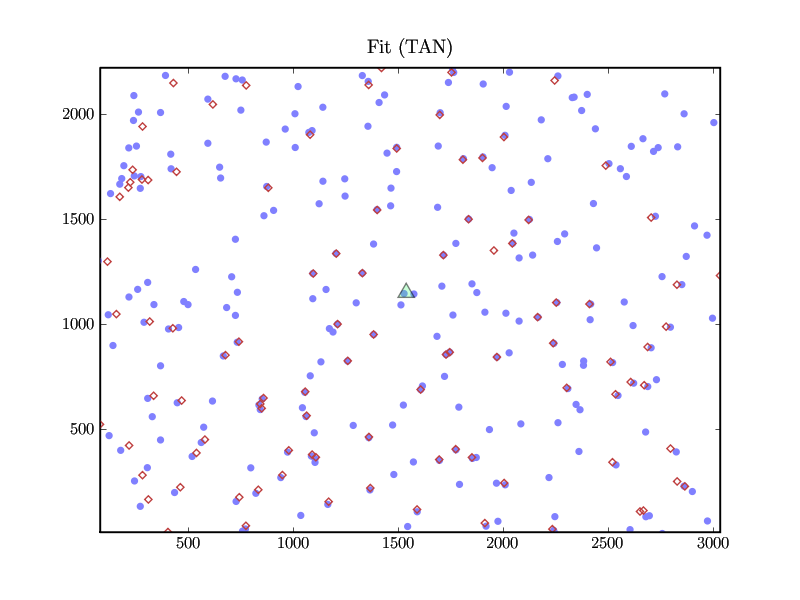
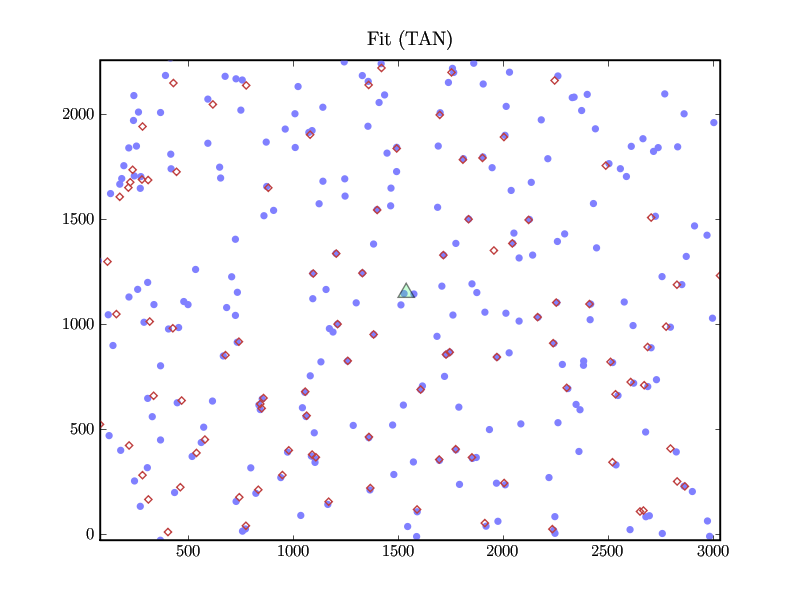
[Jon] ci pytweak

Changed region(s): [[0.0938, 0.87, 0.9062, 0.93], [0.125, 0.03, 0.9062, 0.12]]

diff --git a/src/pytweak/tweak_lib.py b/src/pytweak/tweak_lib.py
@@ -14,14 +14,6 @@ def loadData(imageXYFilename, catalogRDFilename, inputWCSFilename, warpDegree):
 	
 	WCS.warpDegree = warpDegree;
 	
-	WCS.a_order = WCS.warpDegree
-	WCS.b_order = WCS.warpDegree
-	WCS.ap_order = WCS.warpDegree
-	WCS.bp_order = WCS.warpDegree
-	
-	WCS.ab_order_min = MIN_AB_ORDER
-	WCS.abp_order_min = MIN_ABP_ORDER
-
 	(catalogData['X'], catalogData['Y']) = WCS_rd2xy(WCS, catalogData['RA'], catalogData['DEC'])
 
 	# Fudge factor until we get the real data
@@ -30,9 +22,13 @@ def loadData(imageXYFilename, catalogRDFilename, inputWCSFilename, warpDegree):
 	
 	return (imageData, catalogData, WCS)
 
-def fixCRPix(imageData, catalogData, WCS, goal_crpix, renderOutput=False):
+def fixCRPix(imageData, catalogData, WCS, goal_crpix, progressiveWarp=False, renderOutput=False):
 	
-	tweakImage(imageData, catalogData, WCS)	
+	if progressiveWarp:
+		tweakImage_progressive(imageData, catalogData, WCS)
+	else:
+		tweakImage(imageData, catalogData, WCS)
+	
 	if renderOutput:
 		renderCatalogImage(catalogData, imageData, WCS)
 		title('Tweaked (Fiducial CRPix)')
@@ -41,11 +37,12 @@ def fixCRPix(imageData, catalogData, WCS, goal_crpix, renderOutput=False):
 	imageData['X'] = imageData['X_INITIAL']
 	imageData['Y'] = imageData['Y_INITIAL']
 	
-	startCRPix = array([WCS.wcstan.crpix[0], WCS.wcstan.crpix[1]])
 	(WCS.wcstan.crval[0], WCS.wcstan.crval[1]) = WCS.pixelxy2radec(goal_crpix[0], goal_crpix[1])
 	(WCS.wcstan.crpix[0], WCS.wcstan.crpix[1]) = (goal_crpix[0], goal_crpix[1])
 	(catalogData['X'], catalogData['Y']) = WCS_rd2xy(WCS, catalogData['RA'], catalogData['DEC'])
 	
+	# We probably wouldn't have to do this if we could rotate the CD matrix
+	# correctly, to account for the change in RA (right?)
 	polyWarpWCS_repeat(imageData, catalogData, WCS)
 
 def WCS_rd2xy(WCS, ra, dec):
@@ -93,7 +90,7 @@ def renderCatalogImage(catalogData, imageData, WCS):
 	scatter(catalogData['X'], catalogData['Y'], marker = 'o', s=30, facecolor=COLOR1, edgecolor=(1,1,1,0))
 	scatter(imageData['X'], imageData['Y'], marker = 'd', s=30, facecolor=(1,1,1,0), edgecolor=COLOR2)
 	scatter(array([WCS.wcstan.crpix[0]]), array([WCS.wcstan.crpix[1]]), marker = '^', s=200, facecolor=(0.3,1,0.5,0.3), edgecolor=(0,0,0,0.5))
-	axis('image')
+	axis('equal')
 	try:
 		axis((min(imageData['X_INITIAL']), max(imageData['X_INITIAL']), min(imageData['Y_INITIAL']), max(imageData['Y_INITIAL'])))
 	except:
@@ -118,6 +115,7 @@ def renderImageMotion(imageData, WCS):
 
 def findAllPairs(a, b, maxDist):
 	distSqMat = tile(mat(sum(square(a),1)).T, (1,b.shape[0])) + tile(mat(sum(square(b),1)), (a.shape[0],1)) - 2*(mat(a)*mat(b).T)
+	distSqMat[distSqMat<0.0] = 0.0
 	#  Identical to Matlab
 	# [i,j] = where(distSqMat.T < square(maxDist))
 	# pairs = concatenate((j,i),0).transpose()
@@ -219,8 +217,12 @@ def polyWarp(imageData, catalogData, WCS):
 	
 	WA = multiply(warpWeights_double.repeat(A.shape[1],1), A)
 	Wb = multiply(warpWeights_double, b)
-	M = linalg.lstsq(WA,Wb)[0]
+	(M, junk1, rank, junk2) = linalg.lstsq(WA,Wb)
 	resid = (Wb - WA*M)
+	
+	if rank < WA.shape[1]:
+		# Yes, this is deprecated
+		raise 'rank defficient transformation! Lower the order or do progressive warping'
 	
 	# A = polyExpand(catalogPoints, warpDegree)
 	# WA = multiply(warpWeights_double.repeat(A.shape[1],1), A)
@@ -234,6 +236,14 @@ def polyWarp(imageData, catalogData, WCS):
 	imageData['residuals'] = resid
 	WCS.warpM = M
 	# imageData['iwarpM'] = iM
+
+
+def tweakImage_progressive(imageData, catalogData, WCS):
+	warpDegree = WCS.warpDegree
+	for deg in arange(1, warpDegree+1):
+		WCS.warpDegree = deg
+		tweakImage(imageData, catalogData, WCS)
+	WCS.warpDegree = warpDegree
 
 
 def tweakImage(imageData, catalogData, WCS):
@@ -255,7 +265,7 @@ def tweakImage(imageData, catalogData, WCS):
 	# print 'tweaking image with degree =', WCS.warpDegree
 
 	for iter in range(0,TWEAK_MAX_NUM_ITERS):
-				
+		
 		just_requeried = 0;
 		if redist_countdown == 0:
 			(pairs_all, dists_all) = findAllPairs(column_stack((imageData['X'], imageData['Y'])), column_stack((catalogData['X'], catalogData['Y'])), maxImageDist)
@@ -264,7 +274,7 @@ def tweakImage(imageData, catalogData, WCS):
 			redist_countdown = REDIST_INTERVAL
 		else:
 			dists_all = sqrt(square(imageData['X'][pairs_all[:,0]] - catalogData['X'][pairs_all[:,1]]) + square(imageData['Y'][pairs_all[:,0]] - catalogData['Y'][pairs_all[:,1]]))
-
+		
 		weights_all = getWeight(dists_all, sigmas_all)[0]
 
 		toKeep = weights_all > MINWEIGHT
@@ -307,6 +317,15 @@ def pushAffine2WCS(WCS):
 
 # This *replaces* the SIP warp in the WCS with the higher-order terms in WCS.warpM
 def pushPoly2WCS(WCS):
+	
+	WCS.a_order = WCS.warpDegree
+	WCS.b_order = WCS.warpDegree
+	WCS.ap_order = WCS.warpDegree
+	WCS.bp_order = WCS.warpDegree
+	
+	WCS.ab_order_min = MIN_AB_ORDER
+	WCS.abp_order_min = MIN_ABP_ORDER
+	
 	SIP_im2cat = WCS.warpM.reshape(2,-1)[:,:-3].reshape(-1,1).copy()
 	
 	interval = 0.025
@@ -345,6 +364,7 @@ def pushPoly2WCS(WCS):
 
 
 def writeOutput(WCS, inputWCSFilename, outputWCSFilename, catalogXYFilename, catalogRDFilename, imageXYFilename, imageRDFilename, renderOutput):
+	
 	if outputWCSFilename != ():
 		print '\nwriting new WCS to disk'
 		try:

diff --git a/src/pytweak/tweak.py b/src/pytweak/tweak.py
@@ -27,7 +27,7 @@ def tweak(inputWCSFilename, catalogRDFilename, imageXYFilename,
 	if goal_CRPix_Y != ():
 		goal_crpix[1] = goal_CRPix_Y
 	
-	fixCRPix(imageData, catalogData, WCS, goal_crpix, renderOutput)
+	fixCRPix(imageData, catalogData, WCS, goal_crpix, progressiveWarp, renderOutput)
 		
 	if renderOutput:
 		renderCatalogImage(catalogData, imageData, WCS)
@@ -35,10 +35,7 @@ def tweak(inputWCSFilename, catalogRDFilename, imageXYFilename,
 		savefig('3_Fixed_CRPix.png')
 	
 	if progressiveWarp:
-		for deg in arange(1, warpDegree+1):
-			WCS.warpDegree = deg
-			tweakImage(imageData, catalogData, WCS)
-		WCS.warpDegree = warpDegree
+		tweakImage_progressive(imageData, catalogData, WCS)
 	else:
 		tweakImage(imageData, catalogData, WCS)
 	
@@ -78,7 +75,7 @@ if __name__ == '__main__':
 	goal_CRPix_Y = ()
 
 	# Debug stuff
-	folder = 'data/tweaktest2/'
+	folder = 'data/tweaktest1/'
 	catalogRDFilename = folder + 'index.rd.fits'
 	imageXYFilename = folder + 'field.xy.fits'
 	inputWCSFilename = folder + 'wcs.fits'
